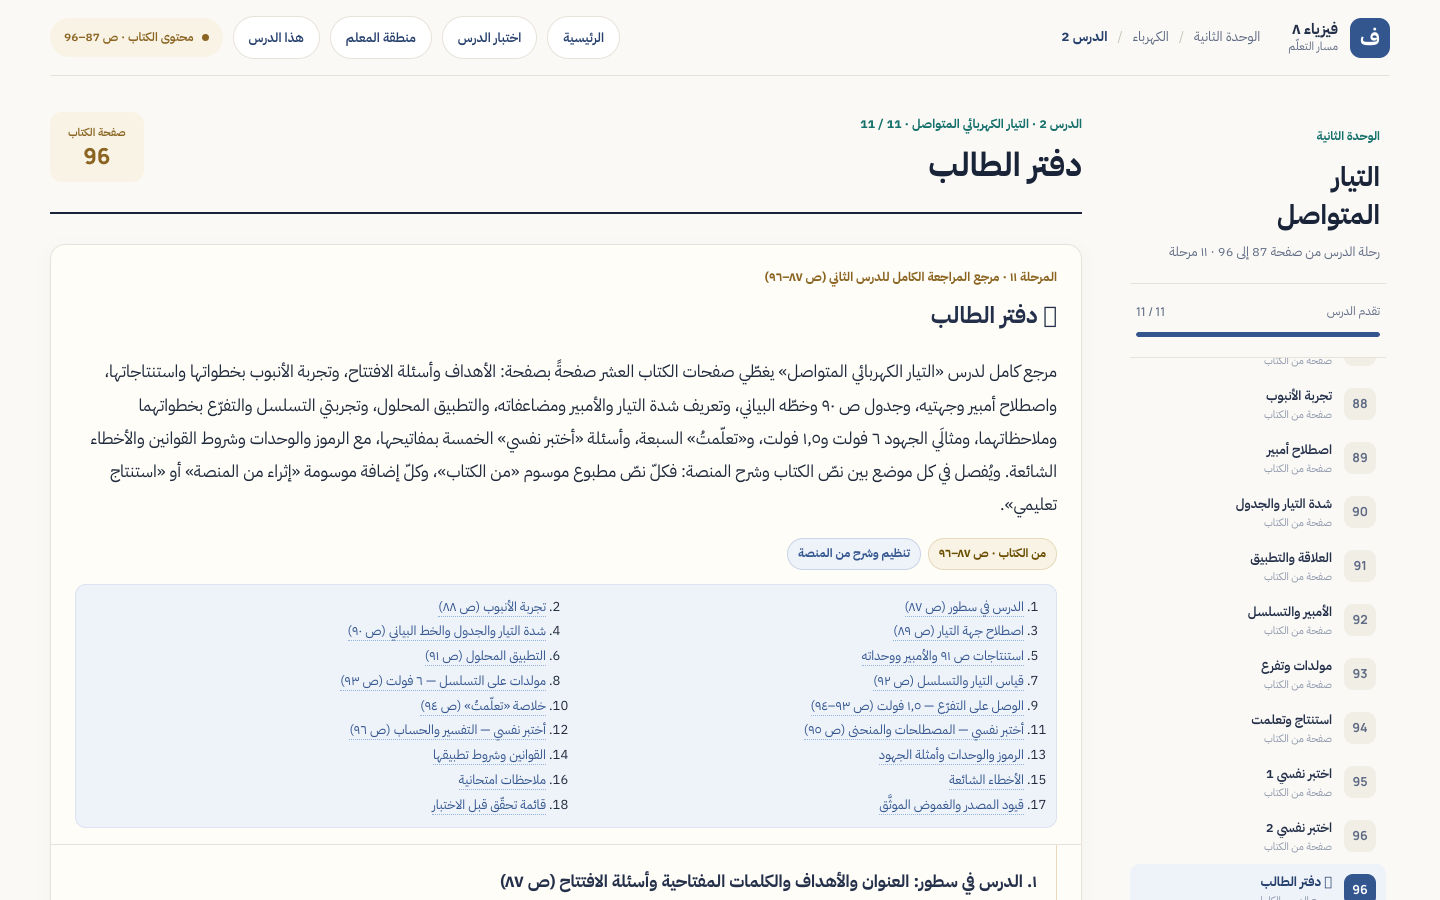
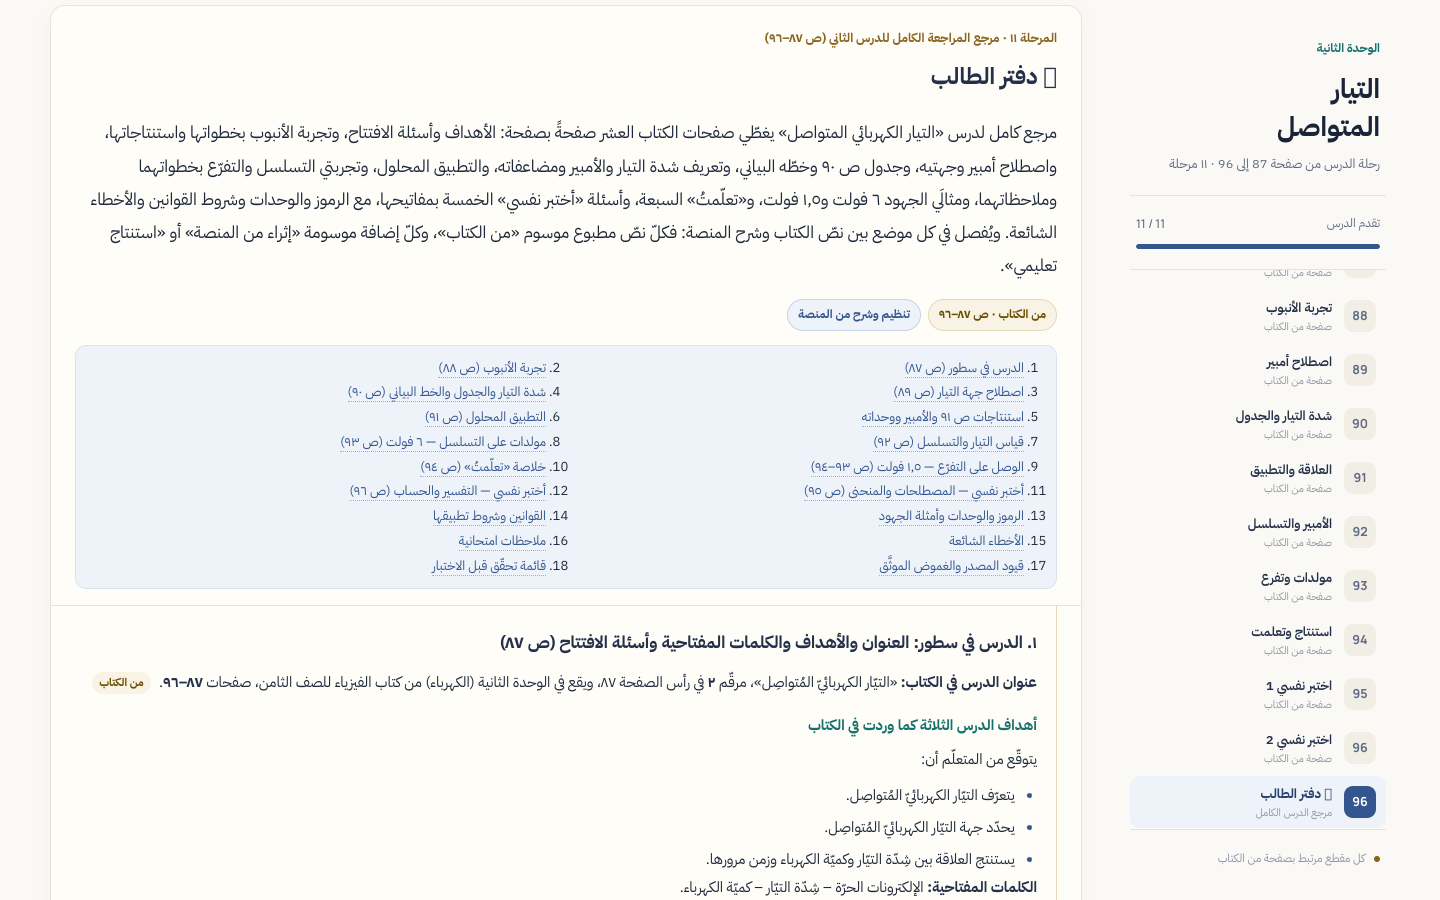
qa: replace the tautological table check with a real per-table containment contract
check(`every table fits or scrolls in its wrapper`, n === 0 || n > 0) could
never fail. It now walks each of the 24 tables and asserts:
  - the table's parent is a .student-notebook-table-wrap
  - one table per wrapper, wrapper a direct child of the sheet, no empty wrapper
  - every <table> under the notebook carries .student-notebook-table (none lost)
  - the wrapper never exceeds the sheet or the viewport width
  - the wrapper's computed overflow-x is auto/scroll, and any overflow is
    absorbed by it (the table is never clipped smaller than its own content)
  - otherwise the table genuinely fits inside the wrapper
Split into three checks (wrapper ownership / fit-or-scroll / page width) and
verified by mutation: orphan table, unscrollable overflowing wrapper, two
tables in one wrapper and an empty wrapper each produce failures.

Browser QA rerun at 1366x768 and 1440x900: 52/52 pass, tables=24 wraps=24
unclassified=0 fits=24 scrolls=0 page overflow 0px. browser-results.txt
regenerated; no other result changed. Notebook content untouched.

Unit notebook tests 24/24. npm test 491/473 pass/5 fail/13 skipped (identical
to the main baseline). npm run build clean.

diff --git a/docs/unit-2-lesson-2-student-notebook.md b/docs/unit-2-lesson-2-student-notebook.md
@@ -79,7 +79,7 @@
 | `src/unit2-lesson2-notebook.js` | **أُعيد بناؤه** — 18 قسمًا، وسوم المصدر، حفظ حالة الجدول المطبوعة، تدريب التحويل، إعادة التطبيق المحلول `I = 60/30 = 2 A`، إصلاح بطاقة إجابة «أختبر نفسي» المكرّرة، وإصلاح خلل ثنائية الاتجاه في قيم الوحدات |
 | `src/unit2-lesson2.css` | قواعد `.student-notebook-*` كاملة: الفهرس، الشارات الثلاث، بطاقات الخطوات، الجداول، الأشكال، الإغلاق الختامي، وقواعد 1024/760/480 |
 | `tests/unit2-lesson2-student-notebook.test.js` | **أُعيدت كتابته** — 24 اختبارًا تغطّي كل صفحة مطبوعة، القوانين والوحدات، التجارب والأمثلة، عدم فقدان المحتوى السابق، ثنائية الاتجاه، الأشكال، وسوم المصدر، وسلوك التنقل وقت التشغيل |
-| `docs/qa/unit2-lesson2-notebook-full/` | **جديد** — سكربت فحص بصري للحاسوب فقط (1366×768 و1440×900)، 48 فحصًا، 12 لقطة |
+| `docs/qa/unit2-lesson2-notebook-full/` | **جديد** — سكربت فحص بصري للحاسوب فقط (1366×768 و1440×900)، 52 فحصًا، 12 لقطة |
 | `docs/qa/unit2-lesson2-notebook/` | **حُذف** — لقطات هاتف قديمة خارج نطاق هذه المهمة |
 | `docs/unit-2-lesson-2-notebook-coverage.md` | **جديد** — مصفوفة التغطية قبل/بعد |
 | هذا الملف | حُدّث ليطابق الدفتر المسلَّم |
@@ -92,7 +92,7 @@
 - **بعد هذه المهمة:** `npm test` → **491 اختبارًا، 473 ناجحًا، 5 فاشلة، 13 متخطاة**. الإخفاقات الخمسة هي **نفسها** خط الأساس بالأسماء: `physics-in-life.test.js`، «Lesson 1 remains an independent 20-question test…»، «lesson navigation follows 8 self-contained stages…»، «the notebook sits inside Unit 2 Lesson 1 and on no other page»، و«notebook selects the definitions, units, measurement rules…». لم تظهر أي إخفاقة جديدة.
 - **اختبار الدفتر:** `node --test tests/unit2-lesson2-student-notebook.test.js` → **24/24**.
 - **البناء:** `npm run build` → **نجح**، `dist/src/unit2-lesson2-notebook.js` = **94,441 بايت**.
-- **الفحص البصري (حاسوب فقط):** Chromium headless على **1366×768** و**1440×900** → **48/48 فحصًا، صفر إخفاق**، صفر أخطاء console. شمل: 11 تبويبًا وآخرها «دفتر الطالب»، 18 قسمًا، 24 جدولًا كلها معنونة، 7 أشكال (كل واحد مرة واحدة)، 216/218 تعبير KaTeX وصفر `katex-error`، لا قصّ لمعادلة عرض، لا تمرير أفقي للصفحة (`scrollWidth == innerWidth`)، لا خروج قسم عن الورقة، 18 رابط فهرس تعمل (بما فيها التمرير إلى `#nb-s06`)، كل `<bdi>` بـ`dir="ltr"` وصفر نصّ عربي داخله، صفر تقاطع بين كتل عربية ولاتينية، صفر «قيمة+وحدة» عارية في نصّ عربي، وبقاء دفتر واحد بعد مغادرة المرحلة والعودة إليها.
+- **الفحص البصري (حاسوب فقط):** Chromium headless على **1366×768** و**1440×900** → **52/52 فحصًا، صفر إخفاق**، صفر أخطاء console. شمل: 11 تبويبًا وآخرها «دفتر الطالب»، 18 قسمًا، 24 جدولًا كلها معنونة، 7 أشكال (كل واحد مرة واحدة)، 216/218 تعبير KaTeX وصفر `katex-error`، لا قصّ لمعادلة عرض، لا تمرير أفقي للصفحة (`scrollWidth == innerWidth`)، لا خروج قسم عن الورقة، 18 رابط فهرس تعمل (بما فيها التمرير إلى `#nb-s06`)، كل `<bdi>` بـ`dir="ltr"` وصفر نصّ عربي داخله، صفر تقاطع بين كتل عربية ولاتينية، صفر «قيمة+وحدة» عارية في نصّ عربي، وبقاء دفتر واحد بعد مغادرة المرحلة والعودة إليها. وأُصلح في هذه الجولة فحص الجداول الذي كان tautology: الآن يتحقّق من أن كل جدول من الـ24 في غلافه الخاص، وأن الغلاف إمّا يحتويه أو يمرّره أفقيًا، وأن لا جدول يوسّع الصفحة (24/24 داخل غلاف، 24 تتّسع، 0 تجاوز).
 
 ## 8. ملاحظات متبقية (لا تُغيّر صحة العمل)
 

diff --git a/docs/qa/unit2-lesson2-notebook-full/README.md b/docs/qa/unit2-lesson2-notebook-full/README.md
@@ -7,7 +7,7 @@
 | المقاسات | `1366×768` و`1440×900` |
 | المحرّك | Chromium headless عبر `playwright-core` + `@sparticuz/chromium` |
 | السكربت | `qa.mjs` |
-| النتيجة | **48/48 فحصًا ناجحًا، صفر إخفاق** |
+| النتيجة | **52/52 فحصًا ناجحًا، صفر إخفاق** |
 | السجلّ | `browser-results.txt` (ملف مولَّد عند كل تشغيل) |
 | الصفحة | `http://0.0.0.0:4173/unit2-lesson-2.html` من جذر المستودع |
 
@@ -34,11 +34,25 @@ node docs/qa/unit2-lesson2-notebook-full/qa.mjs
 2. دفتر واحد فقط بعد مغادرة المرحلة والعودة إليها.
 3. 18 قسمًا، 24 جدولًا كلها معنونة، 7 أشكال هي صور `UNIT2L2_DIAGRAMS` نفسها.
 4. 216–218 تعبير KaTeX وصفر `katex-error`، ولا قصّ لمعادلة عرض.
-5. لا تمرير أفقي للصفحة، ولا خروج قسم عن الورقة، وكل جدول يتّسع أو يمرّر داخل غلافه.
+5. لا تمرير أفقي للصفحة، ولا خروج قسم عن الورقة.
+5ب. **عقد الجداول (3 فحوص):** كل جدول من الجداول الـ24 داخل غلافه الخاص (24 جدولًا / 24 غلافًا)، ولا غلاف مشترك ولا غلاف فارغ ولا جدول خارج التصنيف؛ وكل غلاف إمّا يتّسع للجدول بلا تجاوز أو يكون `overflow-x: auto/scroll` فعلًا؛ والجدول لا يوسّع الصفحة (تجاوز = 0 بكسل).
+   هذا الفحص كان سابقًا **tautology** (`x === 0 || x > 0`) ينجح دائمًا؛ صار يمرّ على كل جدول على حدة ويفشل عند: جدول بلا غلاف، غلاف بلا تمرير، جدول مقصوص، غلافان لجدول واحد، أو غلاف أوسع من الورقة. تحقّقنا من أنه يفشل فعلًا بحقن أربعة أعطال (جدول عارٍ، غلاف غير قابل للتمرير، غلافان مشتركان، جدول بلا غلاف) فأنتج 1 و48 و48 مشكلة على الترتيب.
 6. 18 رابط فهرس تعمل، وأحدها يمرّر فعلًا إلى `#nb-s06`.
 7. كل `<bdi>` بـ`dir="ltr"`، وصفر نصّ عربي داخل عزل لاتيني، وصفر تقاطع بين كتل عربية ولاتينية.
 8. **صفر «قيمة + وحدة» عارية في نصّ عربي** — الفحص الذي كشف خلل «٢٠٠ mA» المرسوم «mA ٢٠٠».
 9. صفر أخطاء console أو صفحة.
+
+## إثبات أن فحص الجداول ليس tautology
+
+الفحص القديم كان `tableFit === 0 || tableFit > 0` (ينجح دائمًا). في هذه الجولة حُقنت أربعة أعطال في الصفحة الحيّة أثناء التشغيل، وأنتج الفحص الجديد مشكلات في كل مرة:
+
+| العطل المحقون | نتيجة الفحص |
+|---|---|
+| لا شيء (الصفحة الأصلية) | `fits=24 scrolls=0 problems=0` |
+| سحب جدول من غلافه | `#1 not wrapped` |
+| جعل كل الأغلفة `overflow-x: visible` مع جدول بعرض 2000px | 48 مشكلة: `wrapper cannot scroll` + `overflows an unscrollable wrapper` |
+| وضع جدولين في غلاف واحد | `#1 shares its wrapper` + `#2 shares its wrapper` |
+| تصغير عرض الغلاف إلى 120px | يتحوّل العقد من «يتّسع» إلى «يمرّر»: `fits=0 scrolls=24 problems=0` (سلوك صحيح: الغلاف يمرّر) |
 
 ## اللقطات
 
